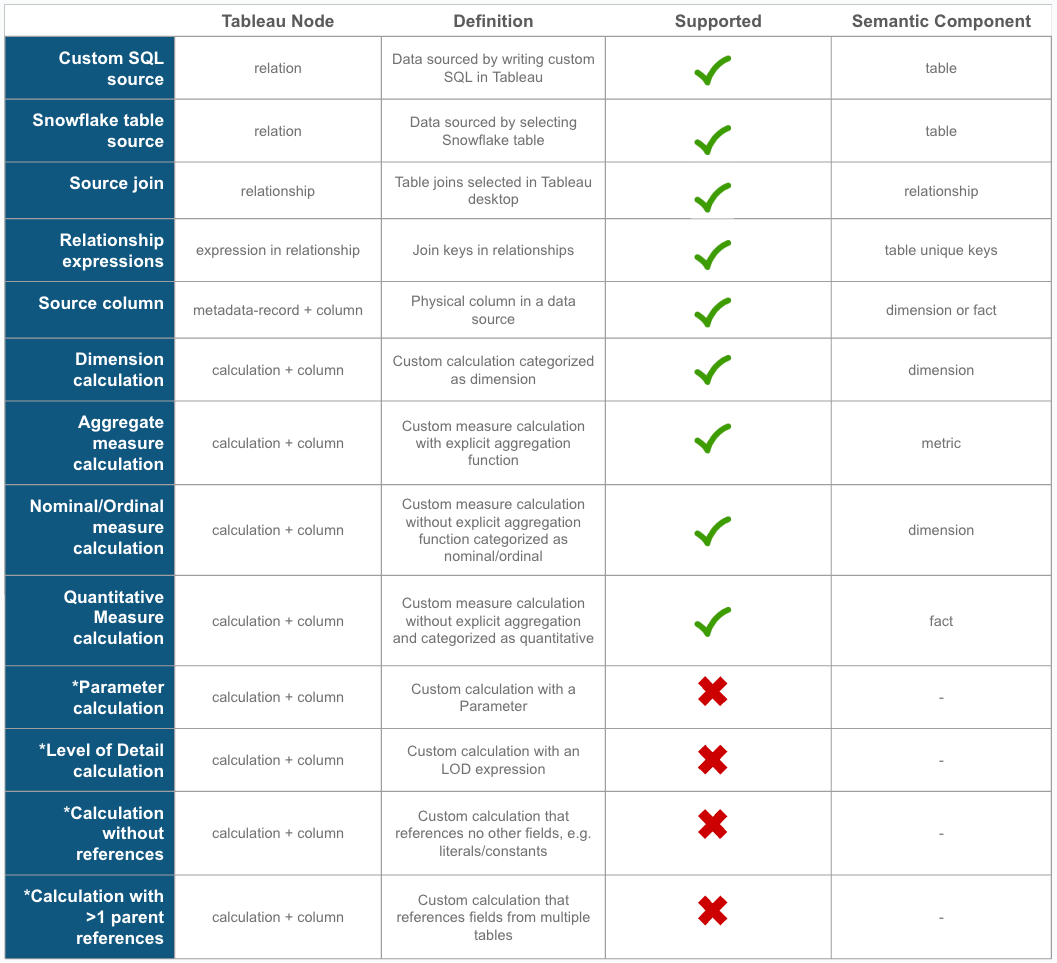
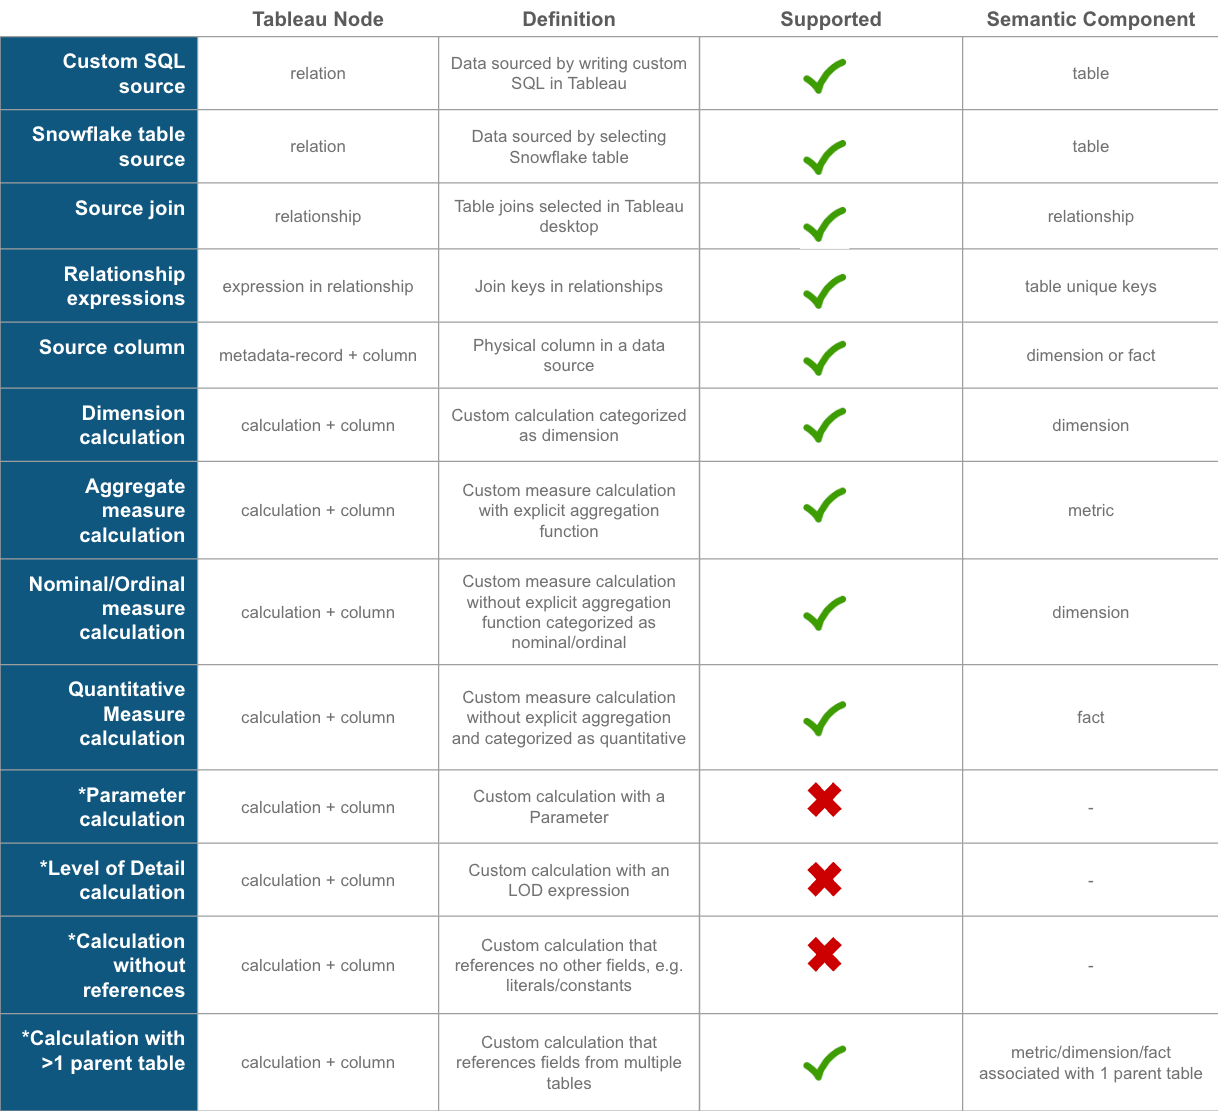
Adjust supported features and relationship support

diff --git a/helper-snowparser/tableau.py b/helper-snowparser/tableau.py
@@ -2,6 +2,7 @@ import json
 import os
 import re
 from typing import Optional, Self
+import textwrap
 import logging
 import html
 from concurrent.futures import ThreadPoolExecutor, as_completed
@@ -280,6 +281,20 @@ class TableauCalculations:
             else:
                 return []
 
+    def output_orphans(self) -> dict[str, str]:
+        """
+        Extracts key elements from Calculation for final orphan rendering.
+
+        :returns: A dictionary of key elements
+        """
+
+        return {
+            'alias': getattr(self, 'alias', 'not found'),
+            'formula': getattr(self, 'formula', 'not found'),
+            'translated_formula': getattr(self, 'translated_formula', 'not found'),
+            'explanation': getattr(self, 'explanation', 'not found'),
+            }
+
     def get_sf_section(self) -> str:
         """Categorizes the column as a fact/dimension/metric based on Tableau metadata.
 
@@ -493,9 +508,13 @@ class TableauRelationship:
         self.columns = columns
         self.translated_relationship = {}
         self.left_table = ''
+        self.left_unique = False
+        self.right_unique = False
         self.right_table = ''
         self.left_columns = []
         self.right_columns = []
+        self.supported = True # Will be used to exclude relationships that are not supported
+        self.explanation = None
         self.parse_relationship_flat()
 
 
@@ -533,18 +552,33 @@ class TableauRelationship:
         table_one = self.relationship_block.find('first-end-point')
         table_two = self.relationship_block.find('second-end-point')
 
-        # Determine which table has PK designated by unique attribution
+        # Determine which table has UNIQUE column designated by unique attribution
         # View supports many-to-1 in that specific order
-        if table_one.attrib.get('unique_key', False) or table_one.attrib.get('is-db-set-unique-key', False):
+        if (table_one.attrib.get('unique_key', False) or table_one.attrib.get('is-db-set-unique-key', False)) and \
+            (table_two.attrib.get('unique_key', False) or table_two.attrib.get('is-db-set-unique-key', False)):
+            self.left_unique = True
+            self.right_unique = True
+            left_table = table_one.attrib.get('object-id')
+            right_table = table_two.attrib.get('object-id')
+            logger.warning("Warning: Relationship between %s and %s designates a relationship as 1-to-1, which is not supported.", right_table, left_table)
+            self.supported = False
+            self.explanation = """Semantic View relationships currently support many-to-1 relationships. This is a 1-to-1 relationship.
+            Denote unique keys in Tableau using [Performance Options](https://help.tableau.com/current/pro/desktop/en-us/datasource_relationships_perfoptions.htm) in Tableau Desktop."""
+        elif table_one.attrib.get('unique_key', False) or table_one.attrib.get('is-db-set-unique-key', False):
+            self.right_unique = True # View requires many-to-1 to be in this order
             right_table = table_one.attrib.get('object-id')
             left_table = table_two.attrib.get('object-id')
         elif table_two.attrib.get('unique_key', False) or table_two.attrib.get('is-db-set-unique-key', False):
+            self.right_unique = True # View requires many-to-1 to be in this order
             right_table = table_two.attrib.get('object-id')
             left_table = table_one.attrib.get('object-id')
         else:
             left_table = table_one.attrib.get('object-id')
             right_table = table_two.attrib.get('object-id')
-            logger.warning("Warning: Relationship between %s and %s does not designate a relationship as many-to-1.", right_table, left_table)
+            logger.warning("Warning: Relationship between %s and %s designates a relationship as many-to-many, which is not supported.", right_table, left_table)
+            self.supported = False
+            self.explanation = """Semantic View relationships currently support many-to-1 relationships. This is a many-to-many relationship.
+            Denote unique keys in Tableau using [Performance Options](https://help.tableau.com/current/pro/desktop/en-us/datasource_relationships_perfoptions.htm) in Tableau Desktop."""
 
         self.left_table = next((rel.alias for rel in self.relations if rel.id == left_table), None)
         self.right_table = next((rel.alias for rel in self.relations if rel.id == right_table), None)
@@ -560,6 +594,25 @@ class TableauRelationship:
         self.right_columns = right_columns
 
 
+    def output_orphans(self) -> dict[str, str]:
+        """
+        Extracts key elements from Relationship for final orphan rendering.
+
+        :returns: A dictionary of key elements
+        """
+
+        return {
+            'left_table': getattr(self, 'left_table', 'not found'),
+            'right_table': getattr(self, 'right_table', 'not found'),
+            'left_columns': ','.join(getattr(self, 'left_columns', ['not found'])),
+            'right_columns': ','.join(getattr(self, 'right_columns', ['not found'])),
+            'supported': getattr(self, 'supported', 'not found'),
+            'explanation': getattr(self, 'explanation', 'not found'),
+            'left_unique': getattr(self, 'left_unique', 'not found'),
+            'right_unique': getattr(self, 'right_unique', 'not found'),
+            }
+
+
     def get_ddl(self) -> str:
         """
         Returns the DDL for the relationship as a relationship in Semantic View.
@@ -573,7 +626,8 @@ class TableauRelationship:
 {name} AS
 {left_table} ({', '.join([f'{prep_for_sql_names(c)}' for c in self.left_columns])}) REFERENCES {right_table} ({', '.join([f'{prep_for_sql_names(c)}' for c in self.right_columns])})
 """
-        return query
+        if self.supported:
+            return query
 
 
 class TableauTDS:
@@ -592,7 +646,7 @@ class TableauTDS:
         self.columnar_metadata = []
         self.calculations = []
         self.relationships = []
-        self.orphans = [] # Captures elements that could not be translated to Semantic View equivalent
+        self.orphans = {} # Captures elements that could not be translated to Semantic View equivalent
         self.parse_tds()
         self.add_view_pks() # Extract relationship primary keys to assign to new custom VIEWs
         self.gather_orphans() # Gather elements that could not be translated to Semantic View equivalent
@@ -782,10 +836,10 @@ class TableauTDS:
         if len(self.relationships) > 0:
             for rel in self.relations:
                 for relationship in self.relationships:
-                    if relationship.left_table == rel.alias:
+                    if relationship.left_table == rel.alias and relationship.left_unique: # Only add if column is designated as unique
                         if relationship.left_columns not in rel.unique_key:
                             rel.unique_key.append(relationship.left_columns)
-                    if relationship.right_table == rel.alias:
+                    if relationship.right_table == rel.alias and relationship.right_unique: # Only add if column is designated as unique
                         if relationship.right_columns not in rel.unique_key:
                             rel.unique_key.append(relationship.right_columns)
 
@@ -794,7 +848,7 @@ class TableauTDS:
     def get_list_ddl(lst) -> str:
         """Unrolls class get_ddl() method from each Semantic View component into DDL string."""
 
-        return ', '.join([i.get_ddl() for i in lst if i is not None and i.get_ddl() != ''])
+        return ', '.join([i.get_ddl() for i in lst if i is not None and i.get_ddl() != '' and i.get_ddl() is not None])
 
     def deduplicate_calculations(self) -> list[TableauCalculations]:
         """
@@ -822,9 +876,19 @@ class TableauTDS:
         Gathers all elements that are not supported in Semantic View in orphans attribute for user.
         """
 
+        # Gather unsupported calculations
+        unsupported_calculations = []
         for item in self.calculations:
             if item.sf_section == 'exclusions':
-                self.orphans.append(item)
+                unsupported_calculations.append(item)
+        self.orphans['calculations'] = unsupported_calculations
+
+        # Gather unsupported relationships
+        unsupported_relationships = []
+        for item in self.relationships:
+            if not item.supported:
+                unsupported_relationships.append(item)
+        self.orphans['relationships'] = unsupported_relationships
 
 
     def get_view_ddl(self, name: str) -> dict[str, str|list]:
@@ -837,7 +901,7 @@ class TableauTDS:
 
         :returns:
             The DDL for the Semantic View
-            A list of orphans (elements that could not be translated to Semantic View equivalent)
+            A dictionary of orphans (elements that could not be translated to Semantic View equivalent)
         """
 
         # De-dupe calculations but don't override the original list so we can still report back to the user
@@ -864,7 +928,9 @@ class TableauTDS:
         query = f"""
 CREATE OR REPLACE SEMANTIC VIEW {name}
 tables (
-    {self.get_list_ddl(self.relations)})
+    {self.get_list_ddl(self.relations)})"""
+        if sum([i.supported for i in self.relationships]) > 0:
+            query += f"""
 relationships (
     {self.get_list_ddl(self.relationships)})"""
 
@@ -885,14 +951,14 @@ metrics (
 
         query = clean_snowflake_ddl(query, ddl_patterns)
 
+        orphans = {
+            key: [item.output_orphans() for item in value_list]
+            for key, value_list in self.orphans.items()
+        }
+
         return {
             'ddl': os.linesep.join([s for s in query.splitlines() if s]), # Remove extra line breaks
-            'orphans': [{
-                        'alias': getattr(item, 'alias', 'not found'),
-                        'formula': getattr(item, 'formula', 'not found'),
-                        'translated_formula': getattr(item, 'translated_formula', 'not found'),
-                        'explanation': getattr(item, 'explanation', 'not found'),
-                        } for item in self.orphans],
+            'orphans': orphans,
         }
 
     def create_view(self, name: str) -> str:

diff --git a/helper-snowparser/README.md b/helper-snowparser/README.md
@@ -61,7 +61,7 @@ CALL GENAI_UTILITIES.UTILITIES.SNOWPARSER_SEMANTIC_DDL(
     view_name => 'MY_SEMANTIC_VIEW'
     );
 ```
-This will return an OBJECT response with keys `ddl` that contains the DDL for the semantic view and `orphans` which contains calculations that were not successfully translated in the semantic view. Each orphan record will have an explanation.
+**This will return an OBJECT response with keys `ddl` that contains the DDL for the semantic view and `orphans` which contains elements that were not successfully translated in the semantic view. Each orphaned element will have an explanation.**
 
 The below example Python implementation shows how Snowparser source can be used outside of a Snowflake Stored Procedure.
 
@@ -86,7 +86,7 @@ tableau_model.create_view('MY_SEMANTIC_VIEW')
 
 ## Supported Components
 We continue to add support for additional capabilities in the Snowflake Semantic View.
-Below is a mapping of the supported and explicitly not supported aspects of Tableau features in the Semantic View.
+Below is a mapping of the supported and explicitly not supported aspects of Tableau features in the Semantic View. Any orphaned elements will be included in the returned object with explanations.
 ![Supported Features](images/supported.png)
 
 ## Feedback
